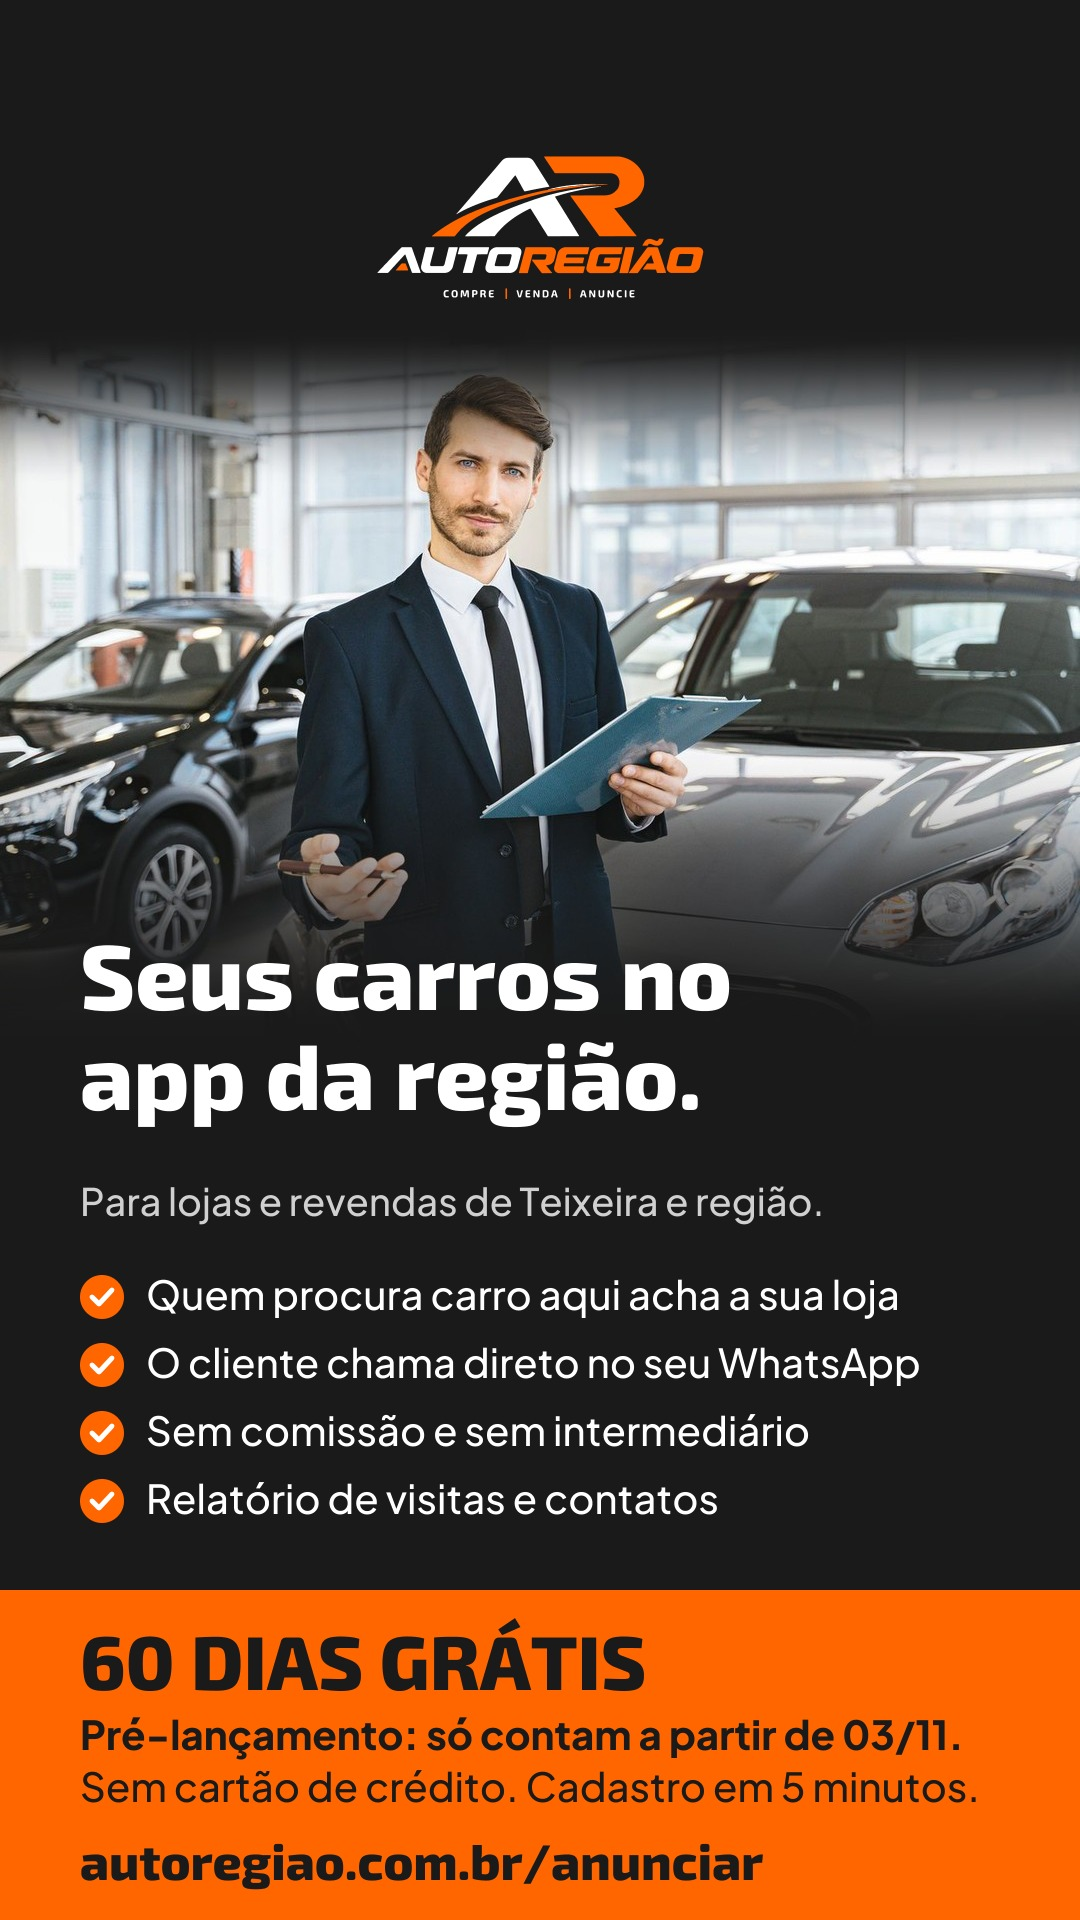
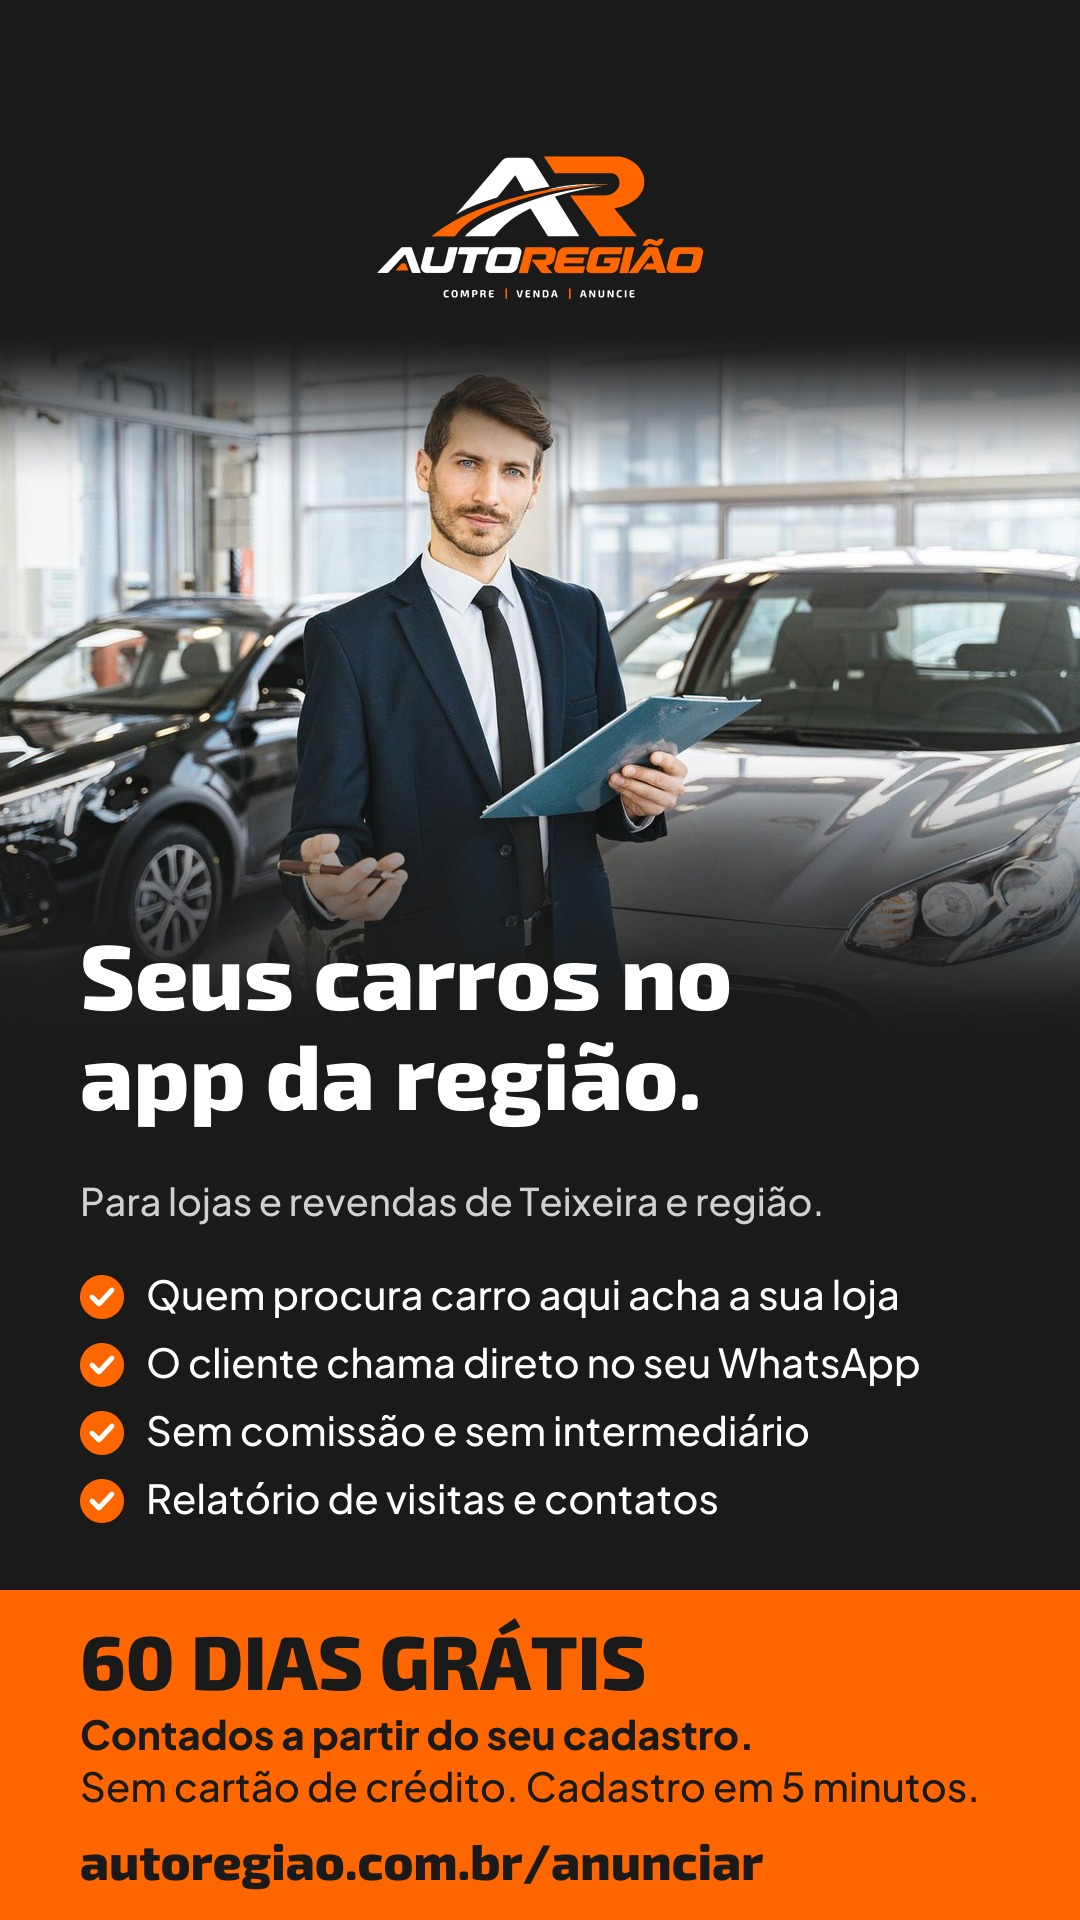
docs: mensagens e Status do WhatsApp com a regra nova dos 60 dias (a partir do cadastro)

Changed region(s): [[0.2139, 0.875, 0.8861, 0.9375], [0.0611, 0.875, 0.2139, 0.9375]]

diff --git a/docs/divulgacao-whatsapp/_scripts/status.py b/docs/divulgacao-whatsapp/_scripts/status.py
@@ -119,28 +119,28 @@ def peca(nome, arq_foto, foco, titulo, sub, itens, faixa_tit, faixa_linhas, roda
     salvar(nome, "".join(c))
 
 
-peca("status-lojistas-1", "public/banners/anuncie-revendedor.jpg", 0.35,
+peca("status-lojistas-1", "docs/divulgacao-whatsapp/_scripts/fotos/anuncie-revendedor.jpg", 0.35,
      ["Seus carros no", "app da região."], "Para lojas e revendas de Teixeira e região.",
      ["Quem procura carro aqui acha a sua loja", "O cliente chama direto no seu WhatsApp",
       "Sem comissão e sem intermediário", "Relatório de visitas e contatos"],
-     "60 DIAS GRÁTIS", ["Pré-lançamento: só contam a partir de 03/11.", "Sem cartão de crédito. Cadastro em 5 minutos."],
+     "60 DIAS GRÁTIS", ["Contados a partir do seu cadastro.", "Sem cartão de crédito. Cadastro em 5 minutos."],
      "autoregiao.com.br/anunciar")
 
 peca("status-lojistas-2", "docs/kit-lojistas/_scripts/capa-carros.jpg", 0.25,
      ["Sua vitrine", "aberta 24 horas."], "O estoque da sua loja no site e no app AutoRegião.",
      ["Página própria da loja, com logo e endereço", "Anúncio com fotos, FIPE e situação do carro",
       "Destaque e vitrine nos planos maiores", "Funciona no celular, sem complicação"],
-     "ENTRE AGORA", ["Lojas cadastradas até 30/11: 60 dias grátis.", "Dúvidas? Chama a gente aqui no WhatsApp."],
+     "ENTRE AGORA", ["Toda loja nova ganha 60 dias grátis.", "Dúvidas? Chama a gente aqui no WhatsApp."],
      "autoregiao.com.br/anunciar")
 
-peca("status-compradores-1", "public/banners/comprar-casal.jpg", 0.3,
+peca("status-compradores-1", "docs/divulgacao-whatsapp/_scripts/fotos/comprar-casal.jpg", 0.3,
      ["Seu próximo carro", "está na região."], "Carros, motos e utilitários da sua cidade e região.",
      ["Busque por marca, preço, ano e cidade", "Compare o preço com a Tabela FIPE",
       "Fale direto com o vendedor no WhatsApp", "Receba aviso quando o seu carro aparecer"],
      "BUSQUE GRÁTIS", ["Sem cadastro e sem taxa para quem compra.", "Também no app para Android e iPhone."],
      "autoregiao.com.br", app=True)
 
-peca("status-compradores-2", "public/banners/fipe-em-casa.jpg", 0.3,
+peca("status-compradores-2", "docs/divulgacao-whatsapp/_scripts/fotos/fipe-em-casa.jpg", 0.3,
      ["Não pague caro.", "Confira a FIPE."], "Consulte a Tabela FIPE grátis no AutoRegião.",
      ["Valor FIPE de carros e motos", "Selo \"Abaixo da FIPE\" nos anúncios",
       "IPVA pago, único dono, revisões em dia", "Contato direto com o vendedor"],

diff --git a/docs/kit-lojistas/MENSAGENS-E-ROTEIRO.md b/docs/kit-lojistas/MENSAGENS-E-ROTEIRO.md
@@ -1,8 +1,10 @@
 # Kit para falar com as lojas — mensagens e roteiro de visita
 
 Criado em 16/10/2026.
-**Oferta de pré-lançamento (decidida 16/10):** 60 dias grátis para lojas cadastradas **até 30/11**; para quem
-entra antes de 03/11, os 60 dias **só começam a contar no lançamento** (fase26). Não divulgar que depois serão 30.
+**Oferta (decisão do Rafael em 30/10, fase30):** **toda loja nova ganha 60 dias grátis, contados a partir do cadastro**,
+sem prazo para entrar. (A regra antiga do pré-lançamento, "contam só a partir de 03/11, até 30/11", não vale mais;
+o folder impresso ainda traz essa frase, mas quem se cadastra depois de 03/11 já conta do cadastro, então não conflita.)
+Contato com os lojistas a partir de **09/11**.
 
 Meta (roteiro, Etapa 4): **10 lojas e 150 anúncios reais até 30/10**.
 Folheto para imprimir: `folheto-lojistas_A5_frente-e-verso_com-sangria-3mm.pdf` (A5, frente e verso, papel couchê
@@ -23,8 +25,8 @@ chama a loja direto no WhatsApp.
 > Lancei o **AutoRegião**, um site e app só com carros de Teixeira e região. Quem procura carro aqui
 > encontra o estoque da sua loja e chama direto no **seu WhatsApp**, sem intermediário e sem comissão.
 >
-> Estamos no **pré-lançamento**: as lojas que entrarem agora ganham **60 dias grátis**, e eles **só começam a
-> contar no dia do lançamento** (03/11). Sem cartão e sem compromisso. O cadastro leva uns 5 minutos.
+> As lojas que entrarem ganham **60 dias grátis**, contados a partir do cadastro. Sem cartão e sem compromisso.
+> O cadastro leva uns 5 minutos.
 >
 > Posso passar aí uns 5 minutinhos para te mostrar? Ou dá uma olhada: www.autoregiao.com.br
 
@@ -40,9 +42,8 @@ curto** (abaixo). Áudio de 30 segundos com a sua voz passa mais confiança que 
 
 ## 3. Lembrete (2 dias depois, se não respondeu)
 
-> Oi, [nome]! Só reforçando: no pré-lançamento sua loja entra com **60 dias grátis**, contando só a partir
-> do lançamento em **03/11** (vai ter telão na Getúlio Vargas e anúncio no Instagram). A oferta vai até 30/11.
-> Quer que eu já deixe sua loja pronta? Você só me manda as fotos dos carros. 👍
+> Oi, [nome]! Só reforçando: sua loja entra com **60 dias grátis**, contados a partir do cadastro, sem cartão.
+> O cadastro leva uns 5 minutos no **autoregiao.com.br**. Se quiser, eu passo aí e a gente faz junto. 👍
 
 (Se não responder de novo: **visitar**. Não mandar uma terceira mensagem.)
 
@@ -74,12 +75,12 @@ Quando a loja tiver carros no ar, mande o link da página da loja para o lojista
 | "Já anuncio no CarroSP." | "Continua lá se quiser. Compare: lá até 17 carros custa R$ 193 por mês. Aqui até 15 é R$ 149, até 40 é R$ 219 e até 80 é R$ 329. E os primeiros 60 dias são grátis." (falar na conversa; **não** colocar o nome do concorrente em folheto ou anúncio) |
 | "Não tenho tempo." | "É rapidinho: 5 minutos pra loja e uns 2 por carro, já que a Tabela FIPE preenche marca, modelo e versão. Pode começar com 3 carros." |
 | "Quanto custa depois?" | "A partir de R$ 149 por mês. A maioria das lojas vai para o Profissional, R$ 219, até 40 carros com destaque. Mas você só decide depois dos 60 dias, vendo quantos clientes chamaram." |
-| "Quem vai ver isso?" | "No lançamento, em 03/11, tem telão na Getúlio Vargas, anúncio no Instagram e Facebook da região e app na loja de aplicativos. E todo mês você recebe um relatório com quantas pessoas viram e chamaram." |
+| "Quem vai ver isso?" | "Quem procura carro na região, pelo site e pelo app AutoRegião (Google Play e App Store), além da divulgação no WhatsApp e dos folhetos. E todo mês você recebe um relatório com quantas pessoas viram e chamaram." |
 | "E se eu não vender nada?" | "Você não paga nada nos 60 dias. Se não chamar ninguém, você não continua. Sem multa e sem contrato." |
 | "Precisa de cartão?" | "Não. Depois, se quiser continuar, paga por Pix ou cartão pelo site." |
 | "Tem comissão sobre a venda?" | "Não. O cliente fala direto com você, e a venda é toda sua." |
 | "Vocês financiam?" | "Não. O AutoRegião só mostra os carros. Financiamento continua com você." |
-| "Entro depois do lançamento." | "Pode, mas quem entra agora já aparece no primeiro dia da divulgação, e os 60 dias só começam a contar em 03/11. Você não perde nada entrando antes." |
+| "Entro mais pra frente." | "Pode, os 60 dias contam a partir do seu cadastro. Mas quem entra agora já aparece desde o começo da divulgação." |
 | "Vou pensar." | "Tranquilo. Cadastra só 3 carros pra ver como fica, não custa nada. Qualquer dúvida me chama." |
 
 ## 7. Ordem sugerida de abordagem
@@ -94,8 +95,8 @@ Meta diária para chegar em 10 lojas em 2 semanas: **3 contatos novos por dia + 
 ## 8. Quando chegar em 5 lojas
 
 Mande para as outras lojas (prova social):
-> "[nome], a [Loja A], a [Loja B] e a [Loja C] já estão no AutoRegião. No pré-lançamento ainda dá para entrar
-> com os 60 dias grátis contando só a partir de 03/11. Bora colocar a sua também?"
+> "[nome], a [Loja A], a [Loja B] e a [Loja C] já estão no AutoRegião. Sua loja também entra com 60 dias grátis,
+> contados a partir do cadastro. Bora colocar a sua também?"
 
 ## 9. Referência: preços do concorrente CarroSP (informados pelo Rafael em 16/10/2026)
 

diff --git a/docs/ESTADO-DO-PROJETO.md b/docs/ESTADO-DO-PROJETO.md
@@ -56,13 +56,16 @@ estiver funcionando perfeitamente** (inclusive pagamentos reais e app na Google 
   `/loja/[id]`, `/favoritos`, `/alerta`, `/anunciar`, `/painel` (+ `/novo-anuncio`, `/planos`), `/admin`,
   `/login`, `/cadastro`, `/recuperar-senha`, `/redefinir-senha`, `/pagamento/retorno`, `/termos`, `/privacidade`, `/offline`.
 - SQL já rodado: `rls-fase0`, `fase1-seguranca`, `fase2`, `fase3`, `fase3-fotos`, `fase4a`, `fase4b`,
-  `fase5-alertas`, `fase6-fipe`, `fase7-filtros`, `fase8-logo-loja`, `fase9-excluir-conta`, `fase10-push`, `fase11-capa-loja`, `fase12-carroceria`, `fase13-demonstracao`, `fase14-demonstracao-privada`, `fase15-planos-agendados-vendido`, `fase16-situacao-veiculo`, `fase17-prioridade-premium`, `fase18-lojas-teste` (30 lojas fictícias, 450 anúncios demo; apagar antes do lançamento — linhas no topo do arquivo), `fase19`+`fase20` (lista `acesso_demonstracao`: e-mails que veem os anúncios demo; mibososantos@gmail.com liberado), `fase21-relatorio-selo` (selo `lojas.verificada` + `relatorios_mensais` + `dados_relatorio_mensal`), `fase22-banners` (banners pagos), `fase23-planos-novos` (limites 15/40/ilimitado), `fase24-particular` (pessoa física: liberações, avulso, expira_em), `fase25-visitas` (contador anônimo de páginas → aba "Visitas" do /admin). **`fase26-pre-lancamento`** (60 dias contam do lançamento 03/11 para quem se cadastra antes; `public.data_lancamento()` + `lib/lancamento.ts`). `fase27-precos-premium-80` (Premium com limite 80; rodada e publicada em 16/10). `fase28-anuncio-flutuante` (anúncio pago flutuante, rodada em 16/10). `fase29-divulgar` (tabela `posts_divulgacao`, limite semanal dos posts com frase; rodada em 29/10). Modelos de e-mail do Auth: `supabase/emails/`.
+  `fase5-alertas`, `fase6-fipe`, `fase7-filtros`, `fase8-logo-loja`, `fase9-excluir-conta`, `fase10-push`, `fase11-capa-loja`, `fase12-carroceria`, `fase13-demonstracao`, `fase14-demonstracao-privada`, `fase15-planos-agendados-vendido`, `fase16-situacao-veiculo`, `fase17-prioridade-premium`, `fase18-lojas-teste` (30 lojas fictícias, 450 anúncios demo; apagar antes do lançamento — linhas no topo do arquivo), `fase19`+`fase20` (lista `acesso_demonstracao`: e-mails que veem os anúncios demo; mibososantos@gmail.com liberado), `fase21-relatorio-selo` (selo `lojas.verificada` + `relatorios_mensais` + `dados_relatorio_mensal`), `fase22-banners` (banners pagos), `fase23-planos-novos` (limites 15/40/ilimitado), `fase24-particular` (pessoa física: liberações, avulso, expira_em), `fase25-visitas` (contador anônimo de páginas → aba "Visitas" do /admin). **`fase26-pre-lancamento`** (60 dias contam do lançamento 03/11 para quem se cadastra antes; `public.data_lancamento()` + `lib/lancamento.ts`). `fase27-precos-premium-80` (Premium com limite 80; rodada e publicada em 16/10). `fase28-anuncio-flutuante` (anúncio pago flutuante, rodada em 16/10). `fase29-divulgar` (tabela `posts_divulgacao`, limite semanal dos posts com frase; rodada em 29/10). `fase30-60-dias-do-cadastro` (rodada em 30/10: 60 dias grátis contam SEMPRE do cadastro; substitui a regra da fase26). Modelos de e-mail do Auth: `supabase/emails/`.
 
 ## Regras de negócio importantes
 - Planos (`lib/planos.ts`; **26/10/2026: +R$50 em cada → 149/219/329** a pedido do Rafael; limites da fase27): básico R$149/15 anúncios,
   profissional R$219/40 + destaque + logo no card ("mais popular"), premium R$329/**80** (acima de 80: sob consulta; Rafael
   NÃO quis preço de fundador) + primeiro na busca + vitrine + borda + selo "Loja Premium"; trial = Profissional (40);
   períodos 1/3(-5%)/6(-10%) meses; 60 dias grátis; 3 dias de carência.
+- **Oferta (30/10/2026, decisão do Rafael): toda loja nova ganha 60 dias grátis contados do CADASTRO, sem prazo para entrar**
+  (fase30 + `lib/lancamento.ts`). O folder impresso ainda cita "até 30/11 / contam a partir de 03/11" — não conflita, pois o
+  contato com lojistas começa em 09/11. Durante os 60 dias: limite do Profissional (40 anúncios no ar) + destaque.
 - Pessoa física (fase24, 14/10/2026): 1 anúncio grátis por CPF e por WhatsApp (HMAC em `lib/cpf.ts`, nunca o número),
   60 dias sem renovação; depois anúncio avulso R$19,90/30d ou R$29,90/60d (Mercado Pago, `pagamentos.plano` avulso30/60,
   sem loja) → `liberacoes_particular`; cada anúncio gasta 1 liberação (gatilho), `veiculos.expira_em`, cron tira do ar;

diff --git a/docs/divulgacao-whatsapp/TEXTOS.md b/docs/divulgacao-whatsapp/TEXTOS.md
@@ -5,8 +5,8 @@ Sem Instagram por enquanto (decisão do Rafael, 19/10 e 28/10).
 
 | Imagem | Para quem | Quando usar |
 |---|---|---|
-| `status-lojistas-1.jpg` (60 dias grátis, contam a partir de 03/11) | lojistas | **até 02/11** (depois do lançamento a frase "só contam a partir de 03/11" perde o sentido) |
-| `status-lojistas-2.jpg` (vitrine 24 horas, cadastro até 30/11) | lojistas | até 30/11 |
+| `status-lojistas-1.jpg` (60 dias grátis, contados a partir do cadastro) | lojistas | a qualquer momento |
+| `status-lojistas-2.jpg` (vitrine 24 horas, toda loja nova ganha 60 dias) | lojistas | a qualquer momento |
 | `status-compradores-1.jpg` (seu próximo carro está na região) | compradores | **só quando o site tiver estoque real** (meta: 10 lojas, 150 anúncios) |
 | `status-compradores-2.jpg` (Tabela FIPE grátis) | compradores | a qualquer momento (a Tabela FIPE funciona mesmo sem anúncios) |
 
@@ -20,11 +20,11 @@ conhece você.
 ## Legendas para o Status (colar junto com a imagem)
 
 **status-lojistas-1**
-> Lojista de Teixeira e região: coloque seus carros no AutoRegião. 60 dias grátis, contando só a partir do
-> lançamento (03/11). Cadastro em 5 minutos: www.autoregiao.com.br/anunciar
+> Lojista de Teixeira e região: coloque seus carros no AutoRegião. 60 dias grátis, contados a partir do seu
+> cadastro. Cadastro em 5 minutos: www.autoregiao.com.br/anunciar
 
 **status-lojistas-2**
-> Sua loja aberta 24 horas no celular de quem procura carro na região. Lojas cadastradas até 30/11 ganham
+> Sua loja aberta 24 horas no celular de quem procura carro na região. Toda loja nova ganha
 > 60 dias grátis. Dúvidas? Me chama aqui. 👉 www.autoregiao.com.br/anunciar
 
 **status-compradores-1**
@@ -53,7 +53,7 @@ conhece você.
 > ✅ Anúncio com fotos, Tabela FIPE e situação do carro (IPVA pago, único dono...)
 > ✅ Relatório de quantas pessoas viram e chamaram
 >
-> 🎁 *Pré-lançamento:* lojas cadastradas até 30/11 ganham *60 dias grátis*, sem cartão de crédito.
+> 🎁 Toda loja nova ganha *60 dias grátis*, sem cartão de crédito.
 >
 > 👉 www.autoregiao.com.br/anunciar
 > Qualquer dúvida, é só me chamar: (73) 99820-9698
